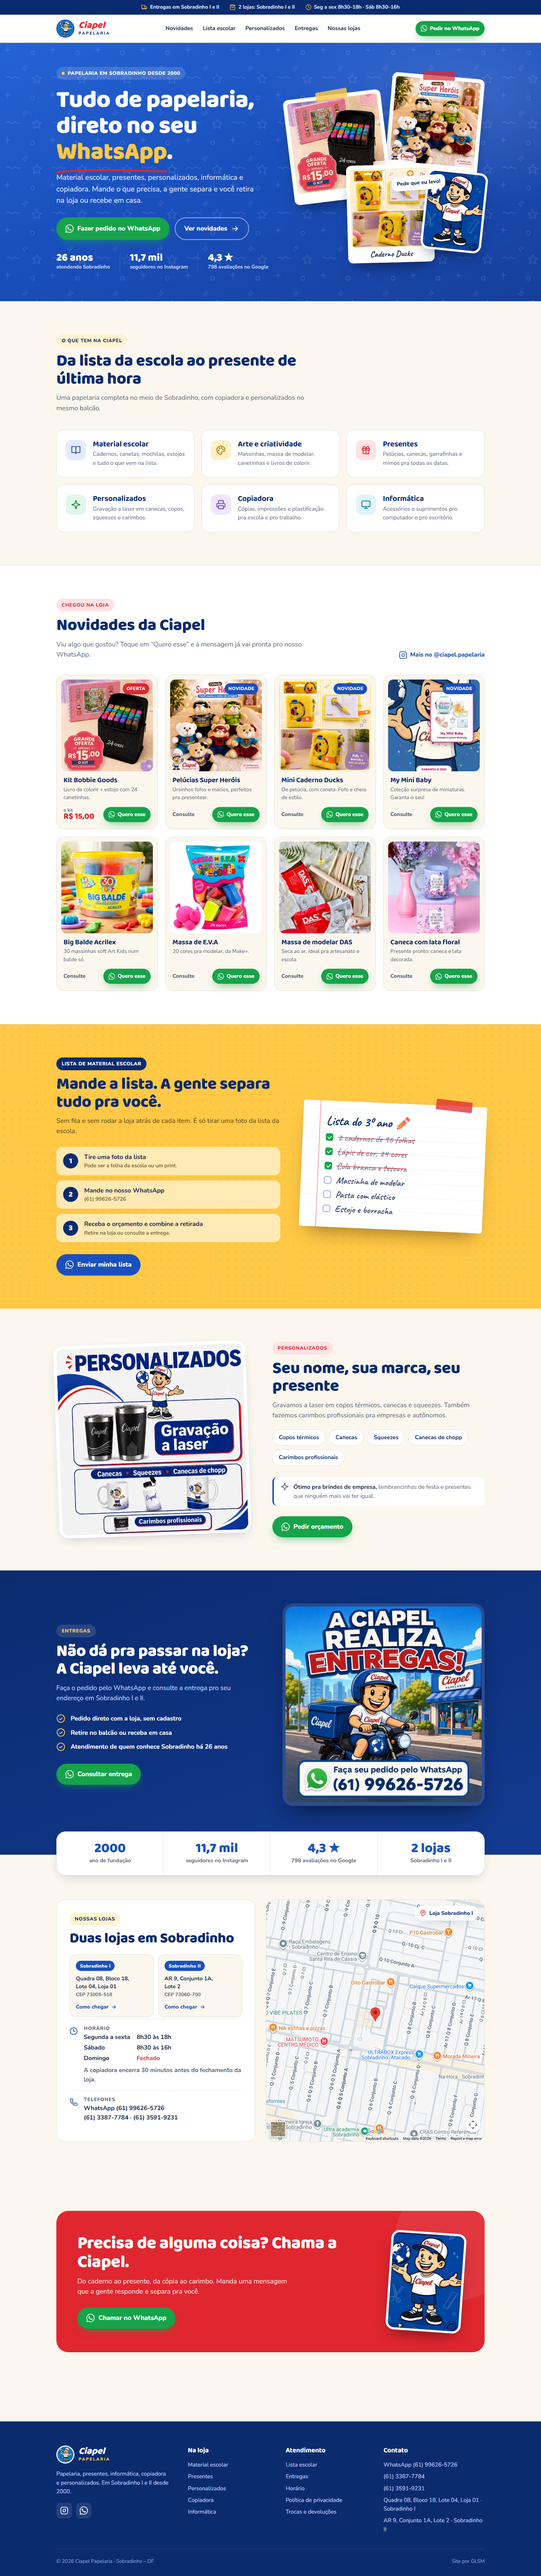
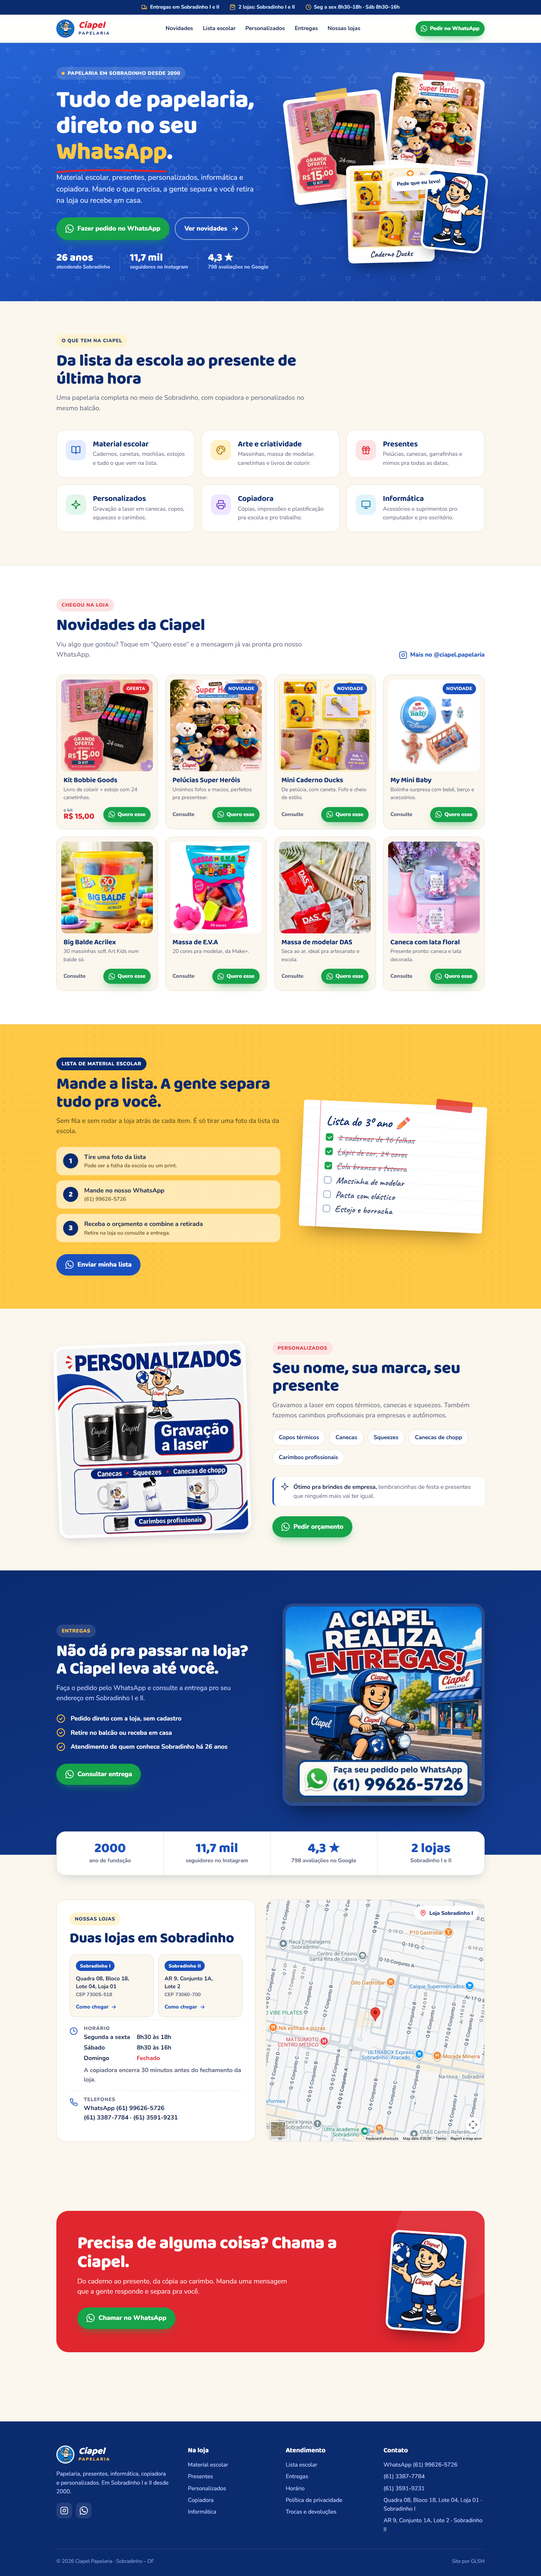
Ciapel Papelaria: nova foto do My Mini Baby
Troca o print do reel pela foto do produto (borda escura recortada e
respiro em cima pro selo) e ajusta a descrição. Screenshots refeitos.

Changed region(s): [[0.7188, 0.2499, 0.9062, 0.3124]]

diff --git a/clientes/ciapel papelaria/mockup/index.html b/clientes/ciapel papelaria/mockup/index.html
@@ -455,8 +455,8 @@
           <div class="rodape"><span class="consulte">Consulte</span><a class="btn btn-wa btn-sm" href="https://wa.me/5561996265726" data-wa="Olá, Ciapel! Vi no site e tenho interesse no Mini Caderno de Pelúcia Ducks."><svg class="ico-wa"><use href="#wa"/></svg>Quero esse</a></div></div>
       </article>
       <article class="card">
-        <div class="foto"><img src="assets/fotos/post14-mymini.jpg" alt="Coleção surpresa My Mini Baby" style="object-position:50% 38%"><span class="selo novo">Novidade</span></div>
-        <div class="info"><h3>My Mini Baby</h3><p>Coleção surpresa de miniaturas. Garanta o seu!</p>
+        <div class="foto"><img src="assets/fotos/mymini-baby.jpg" style="object-fit:contain;padding:15% 7% 4%" alt="My Mini Baby Disney: bolinha surpresa com bebê, berço e acessórios"><span class="selo novo">Novidade</span></div>
+        <div class="info"><h3>My Mini Baby</h3><p>Bolinha surpresa com bebê, berço e acessórios.</p>
           <div class="rodape"><span class="consulte">Consulte</span><a class="btn btn-wa btn-sm" href="https://wa.me/5561996265726" data-wa="Olá, Ciapel! Vi no site e tenho interesse no My Mini Baby."><svg class="ico-wa"><use href="#wa"/></svg>Quero esse</a></div></div>
       </article>
       <article class="card">
